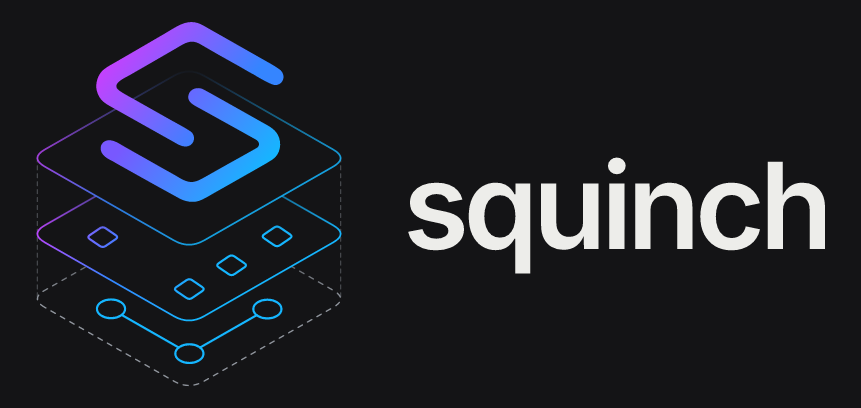
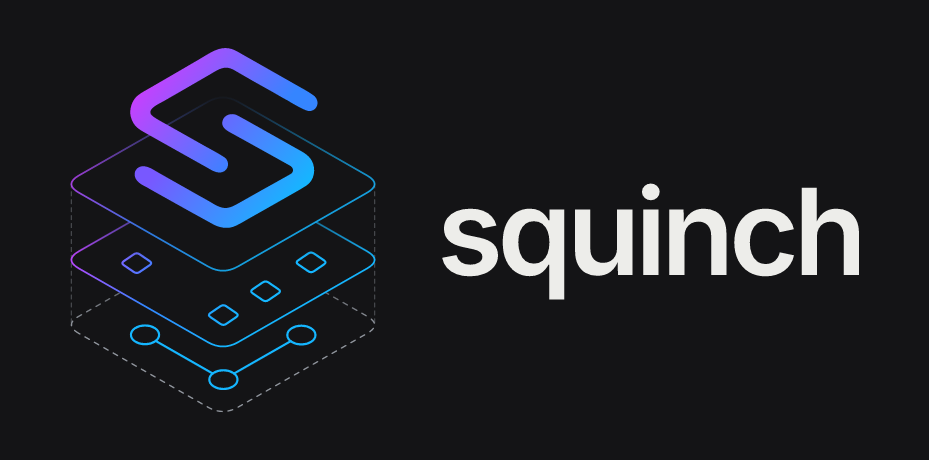
Rename writing section to posts, loosen OG crop, shrink cards
Re-crops the squinch OG image with more padding around the content
(929x460) and caps the project grid columns at 310px.

Claude-Session: https://claude.ai/code/session_01Da9msttoYQZgQFYe1pLUxF

diff --git a/css/main.css b/css/main.css
@@ -628,7 +628,7 @@ a.card-link {
 
 .project-grid {
 	display: grid;
-	grid-template-columns: repeat(2, minmax(0, 350px));
+	grid-template-columns: repeat(2, minmax(0, 310px));
 	gap: 20px;
 	margin-bottom: 40px;
 }
@@ -688,7 +688,7 @@ a.card-link {
 .project-card-image img {
 	display: block;
 	width: 100%;
-	aspect-ratio: 861 / 408;
+	aspect-ratio: 929 / 460;
 	object-fit: cover;
 }
 

diff --git a/projects.html b/projects.html
@@ -22,7 +22,7 @@ permalink: /projects/
     </li>
   </ul>
   <div class="projects-intro">
-    <h1>writing</h1>
+    <h1>posts</h1>
     <p class="projects-subtitle">writing cadence: ~1 post per decade. see you in the 2030s.</p>
   </div>
   <ul id="post-list">
